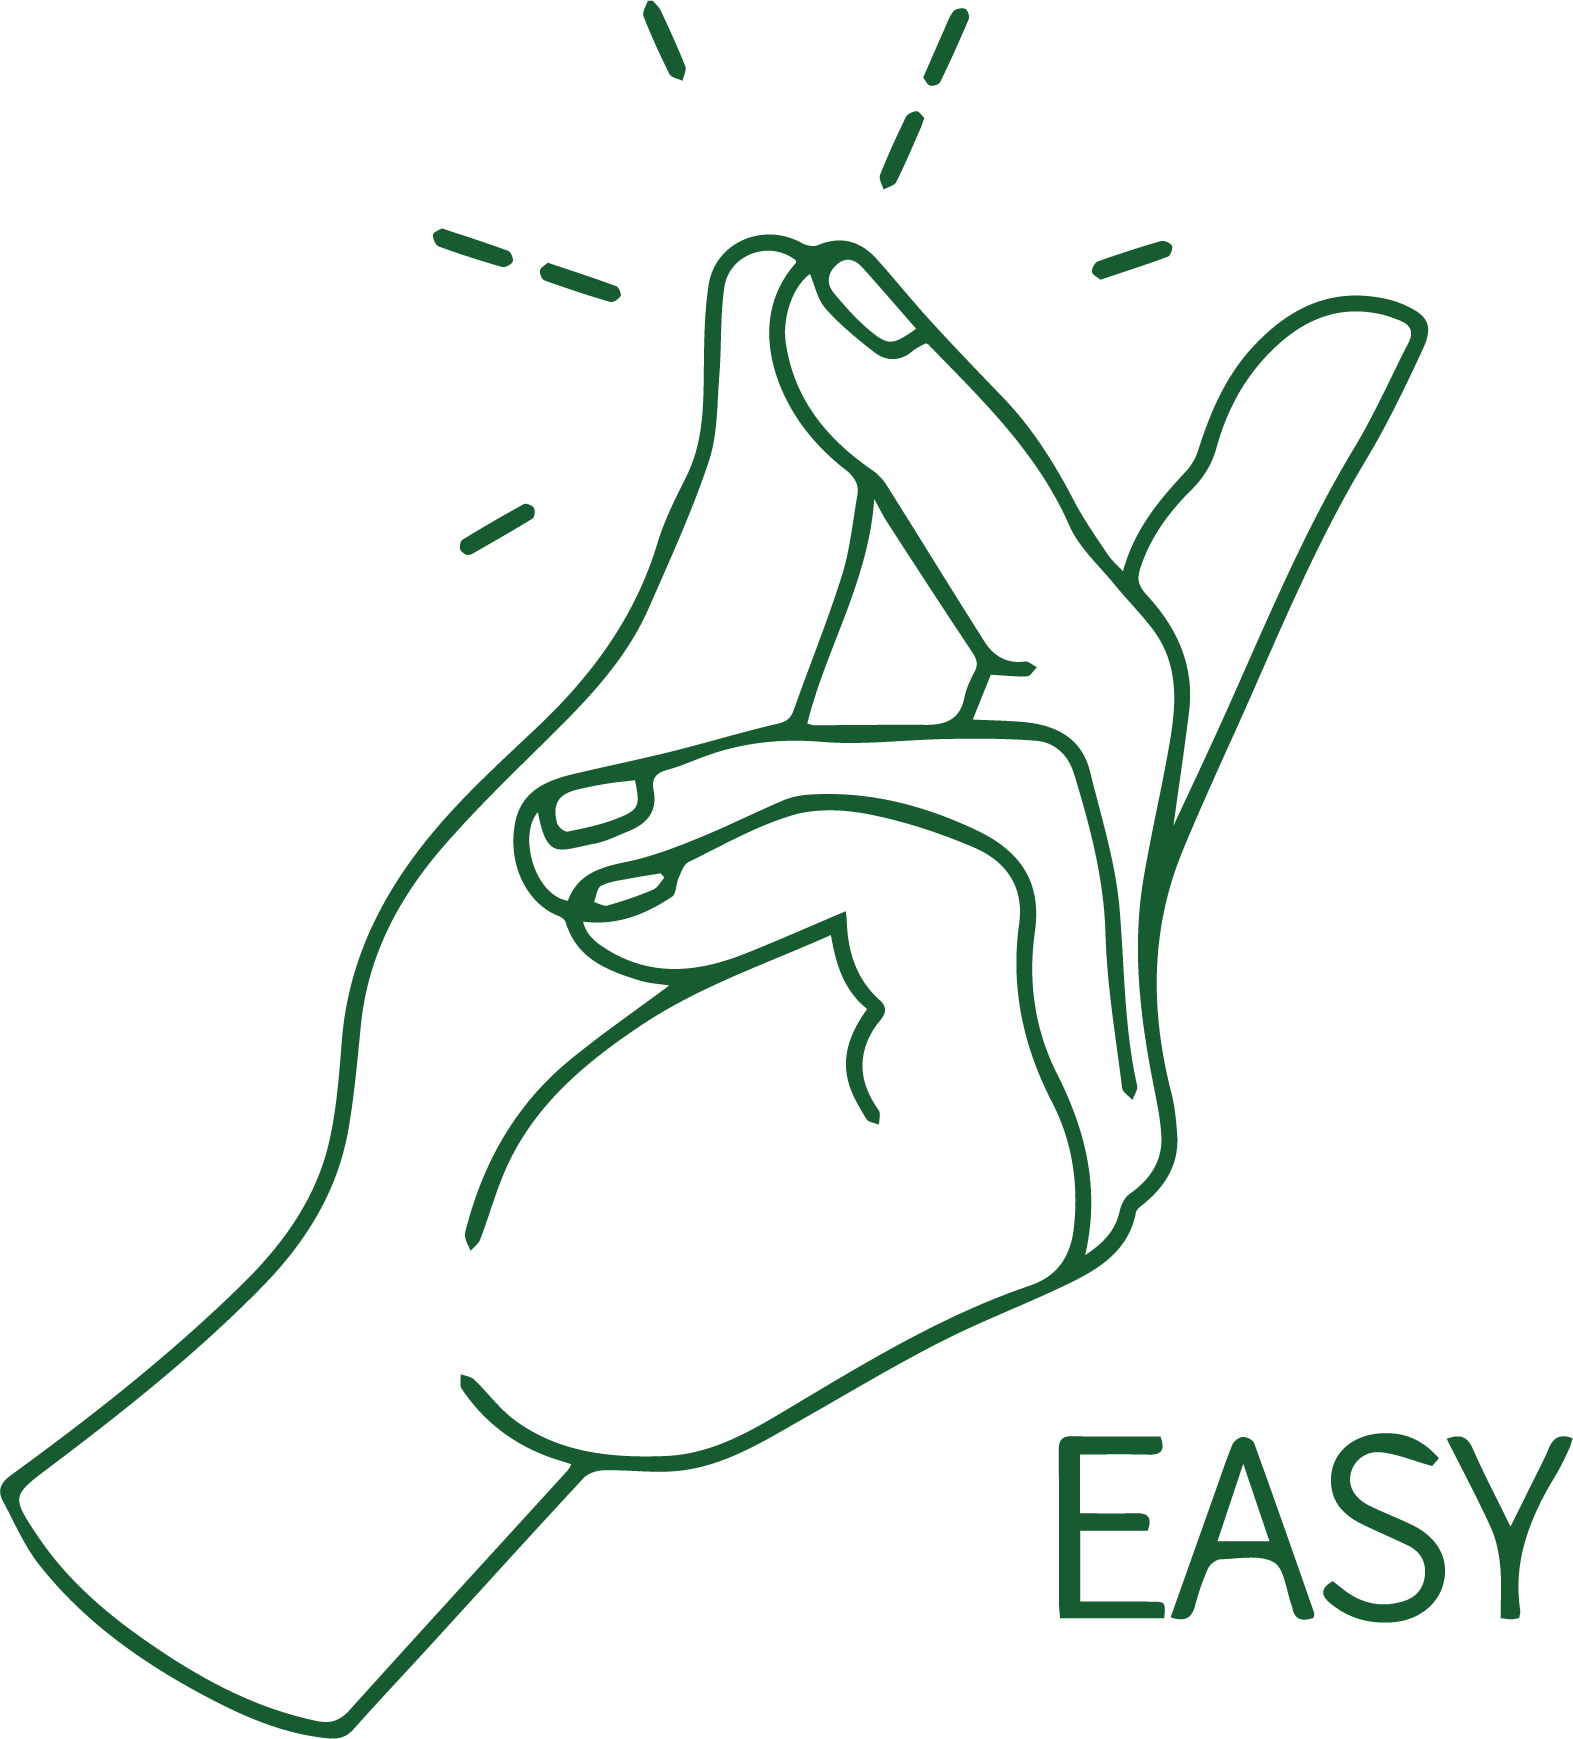
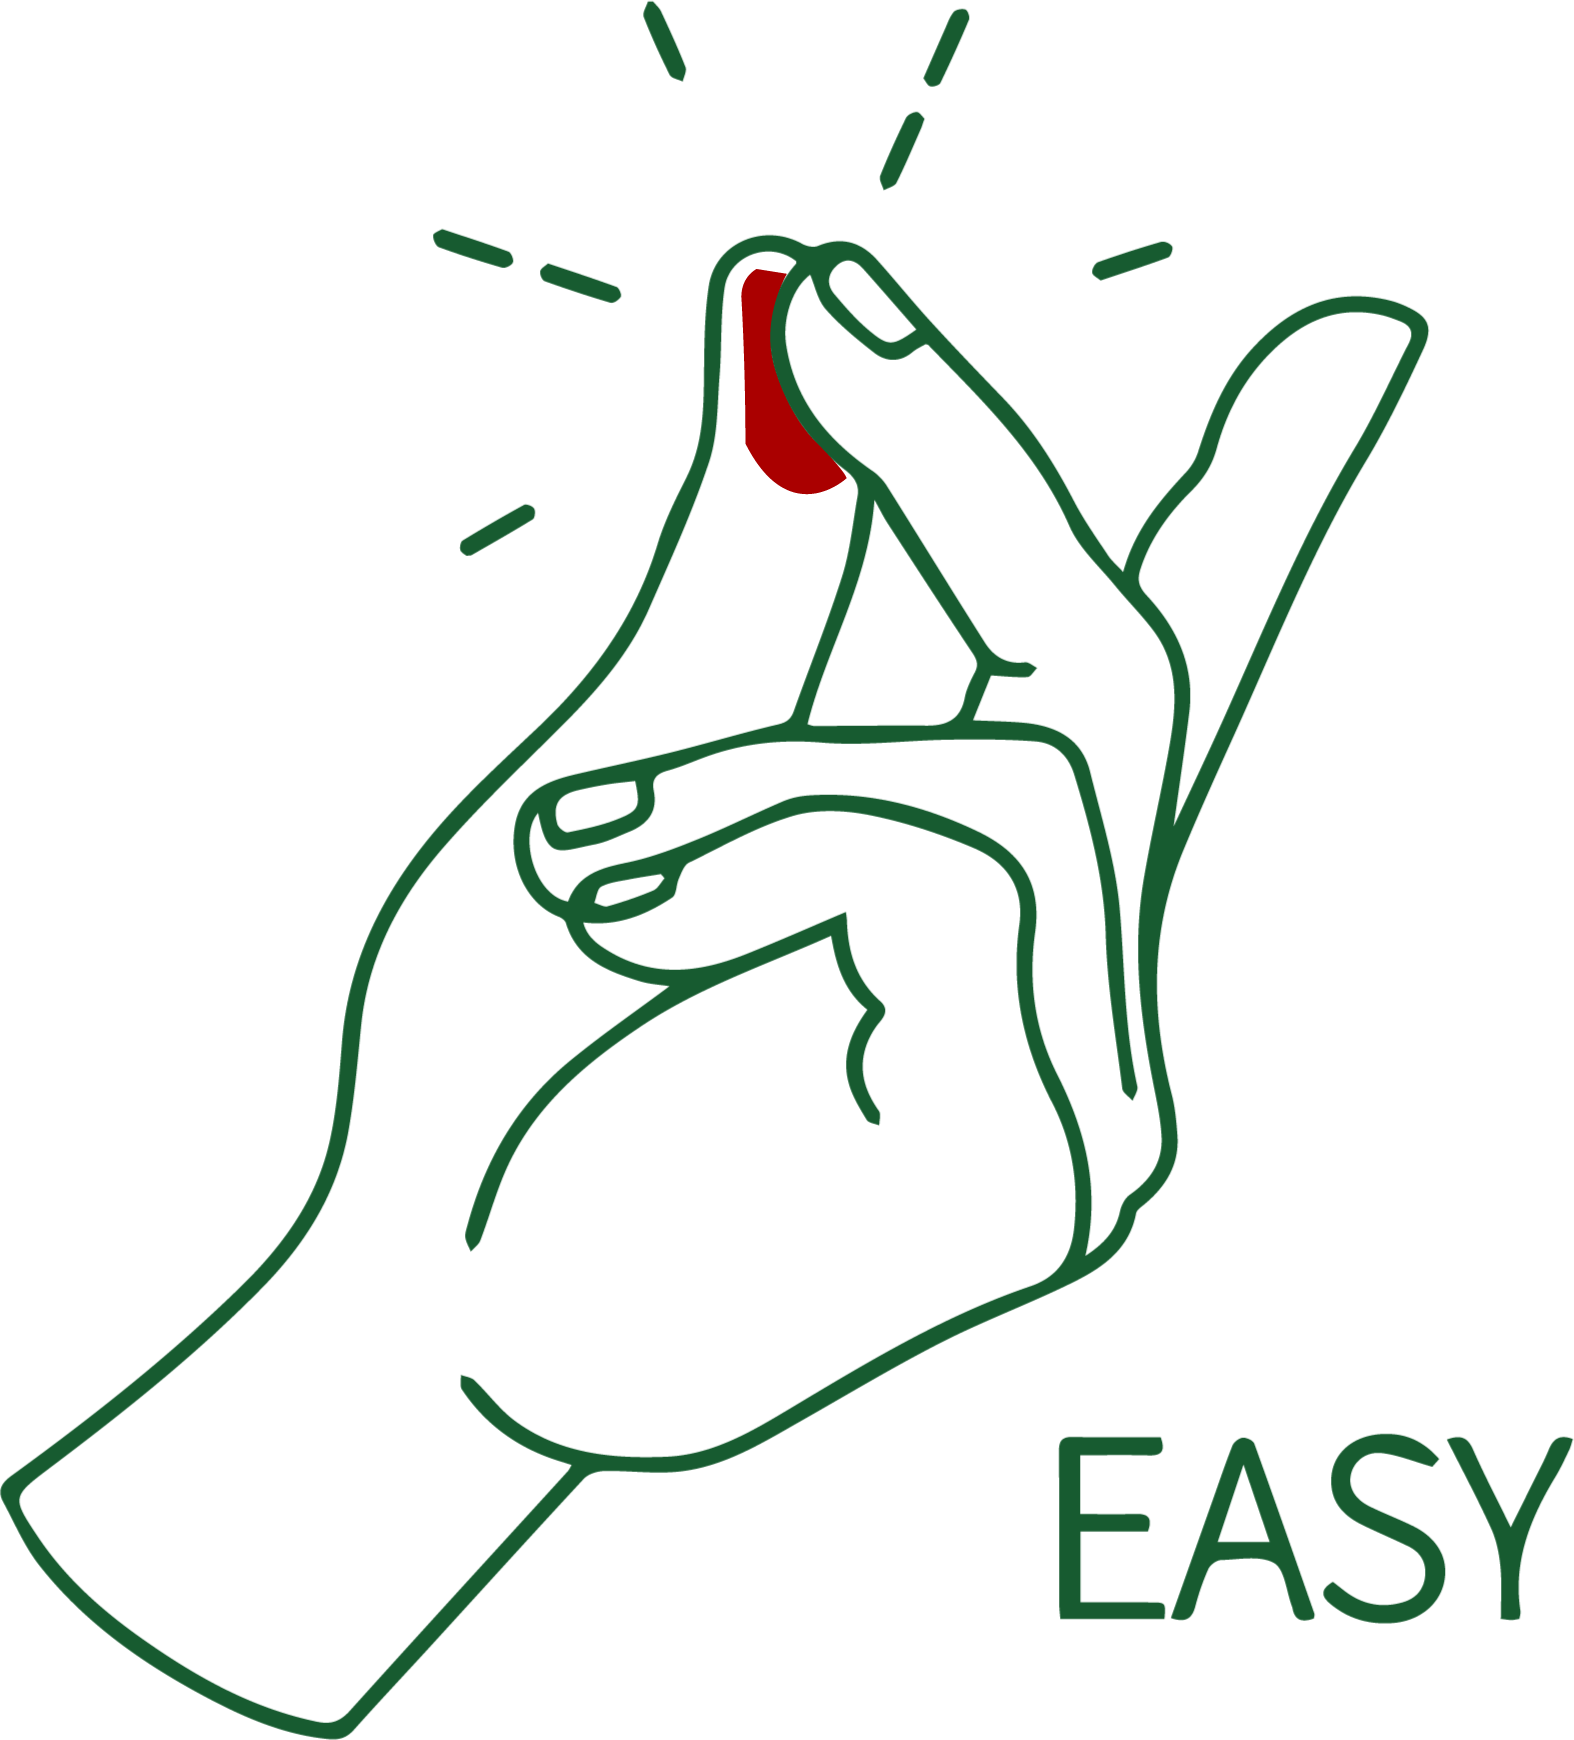
illust added

Changed region(s): [[0.4673, 0.1553, 0.5607, 0.3105], [0.1869, 0.9937, 0.2181, 1.0]]

diff --git a/src/components/cards/Cardheader.tsx b/src/components/cards/Cardheader.tsx
@@ -10,19 +10,9 @@ const Cardheader = () => {
         id="orderNavBar"
         className="sticky top-0
           hidden flex-row border-[1px] border-gray-300 bg-gray-100
-          md:block md:px-6 md:py-2 lg:px-10 lg:py-3
-    "
+          md:block md:px-6 md:py-2 lg:px-10 lg:py-3"
       >
         <ul className="ml-[5.5rem] list-none self-center">
-          <li className="mr-7 inline-block text-sm">
-            <button
-              onClick={() => {
-                navigate('/card/gift')
-              }}
-            >
-              Gift Card
-            </button>
-          </li>
           <li className="mr-7 inline-block text-sm">
             <button
               onClick={() => {
@@ -30,6 +20,15 @@ const Cardheader = () => {
               }}
             >
               Thumbs Point
+            </button>
+          </li>
+          <li className="mr-7 inline-block text-sm">
+            <button
+              onClick={() => {
+                navigate('/card/gift')
+              }}
+            >
+              Thumbs Card
             </button>
           </li>
         </ul>

diff --git a/src/components/cards/PointLeft.tsx b/src/components/cards/PointLeft.tsx
@@ -1,15 +1,15 @@
 import React from 'react'
 
-const GiftLeft = () => {
+const PointLeft = () => {
   return (
     <div className="text-center font-bold text-green-800">
       <div className="pt-16">THUMBS!</div>
-      <div>GIFT CARD</div>
+      <div>FINGER SNAP</div>
       <div className="pt-10">
-        <img className="mx-auto h-60 sm:h-60 md:h-80 lg:h-96" src={`${process.env.PUBLIC_URL}/img/cardslide.gif`} />
+        <img className="mx-auto h-60 sm:h-60 md:h-80 lg:h-96" src={`${process.env.PUBLIC_URL}/img/cardIllust.png`} />
       </div>
     </div>
   )
 }
 
-export default GiftLeft
+export default PointLeft

diff --git a/src/components/cards/Gift.tsx b/src/components/cards/Gift.tsx
@@ -1,5 +1,5 @@
 import React from 'react'
-import CardIntro from './GiftLeft'
+import GiftLeft from './GiftLeft'
 import Join from './Join'
 
 const Gift = () => {
@@ -7,7 +7,7 @@ const Gift = () => {
     
     <div className="grid grid-col-1 md:flex flex-row-2 h-screen">
       <div className="w-full h-full font-semibold bg-white">
-        <CardIntro />
+        <GiftLeft />
       </div>
       <div className="w-full h-full font-semibold bg-green-700">
         <Join />

diff --git a/src/components/cards/Point.tsx b/src/components/cards/Point.tsx
@@ -1,12 +1,12 @@
 import React from 'react'
-import GiftLeft from './GiftLeft'
 import Join from './Join'
+import PointLeft from './PointLeft';
 
 const Point = () => {
   return (
     <div className="grid-col-1 flex-row-2 grid h-screen md:flex">
       <div className="h-full w-full bg-white font-semibold">
-        <GiftLeft />
+        <PointLeft />
       </div>
       <div className="h-full w-full bg-green-700 font-semibold">
         <Join />
